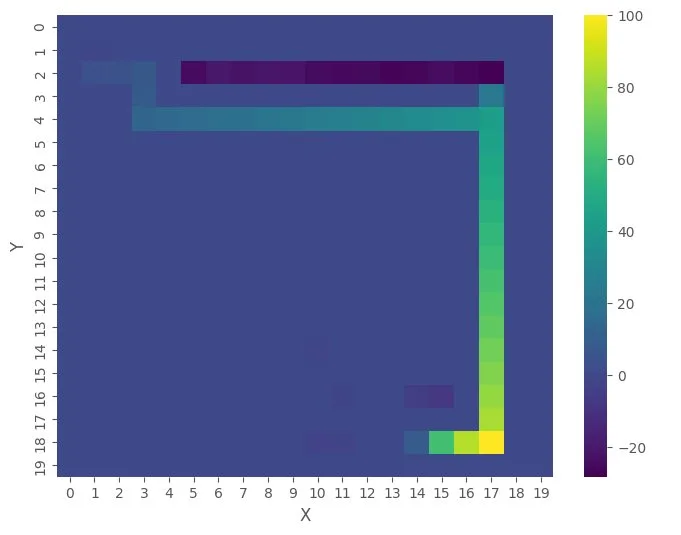
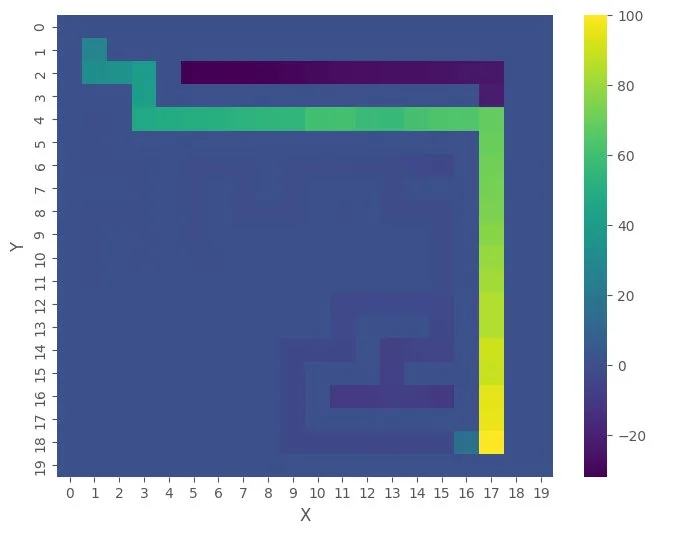
Add a maze render to the coursework page and swap the heatmap for the SARSA one

diff --git a/dungeon-ml.html b/dungeon-ml.html
@@ -137,6 +137,16 @@
     hyperparameters tuned by Optuna, and modified the environment to add a
     penalty for three consecutive moves in the same direction, so the
     shortest route isn't always the safest action sequence.</p>
+
+  <figure class="bleed plain">
+    <img src="assets/img/dungeon-maze.webp" loading="lazy"
+         alt="A top-down maze of white wall blocks on a black background, with a blue triangular robot at the top left entrance and a red exit square at the bottom right"
+         width="1024" height="1024">
+    <figcaption>A 20&times;20 maze as the environment draws it. The robot
+      starts at the top left, the exit is at the bottom right, and every step
+      costs a point.</figcaption>
+  </figure>
+
   <p>The first attempt was the ambitious version: a freshly generated maze
     every episode, aiming for a general solving strategy. It failed, for a
     reason worth spelling out. Tabular methods key their values to exact
@@ -156,11 +166,12 @@
 
   <figure class="bleed plain">
     <img src="assets/img/dungeon-qmap.webp" loading="lazy"
-         alt="A heatmap of a 20 by 20 grid, mostly dark, with a bright path of high values running from the top left to a yellow goal cell at the bottom right"
+         alt="A heatmap of a 20 by 20 grid with a bright path of high values running from the top left to a yellow goal cell at the bottom right, surrounded by faint darker traces of explored corridors"
          width="681" height="535">
-    <figcaption>Maximum Q-value per cell after training on the fixed maze.
-      The route runs from the entrance at top left to the exit at bottom
-      right, with values rising towards the goal.</figcaption>
+    <figcaption>Maximum Q-value per cell after the SARSA run on its fixed
+      maze. The learned route rises towards the exit at bottom right, and the
+      darker texture around it is explored ground that got
+      penalised.</figcaption>
   </figure>
 
   <h2>What I took from it</h2>
